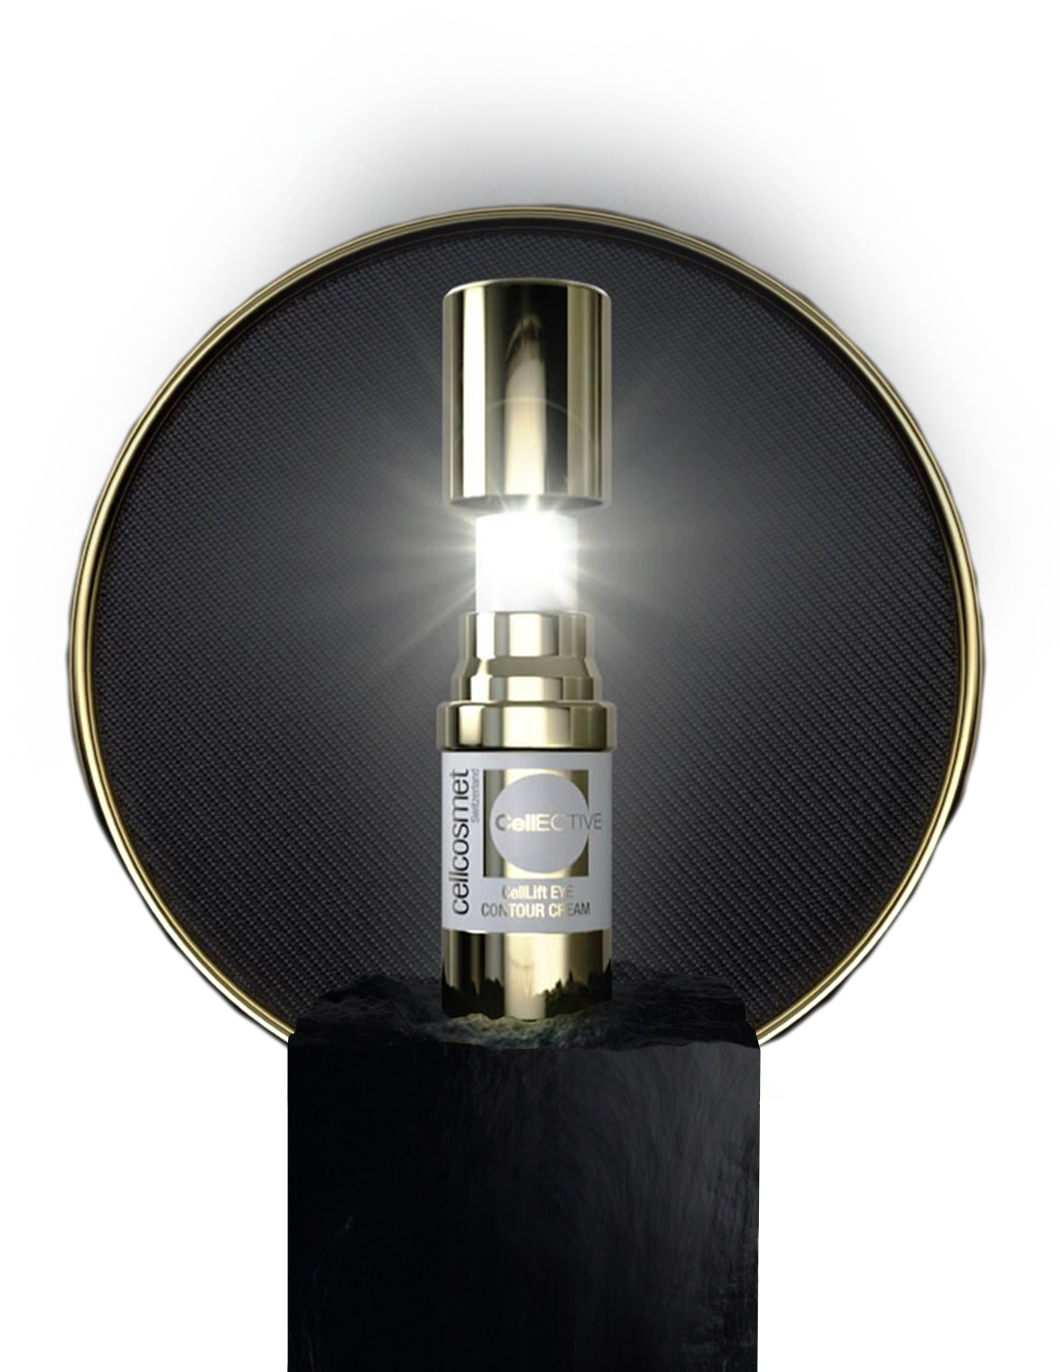
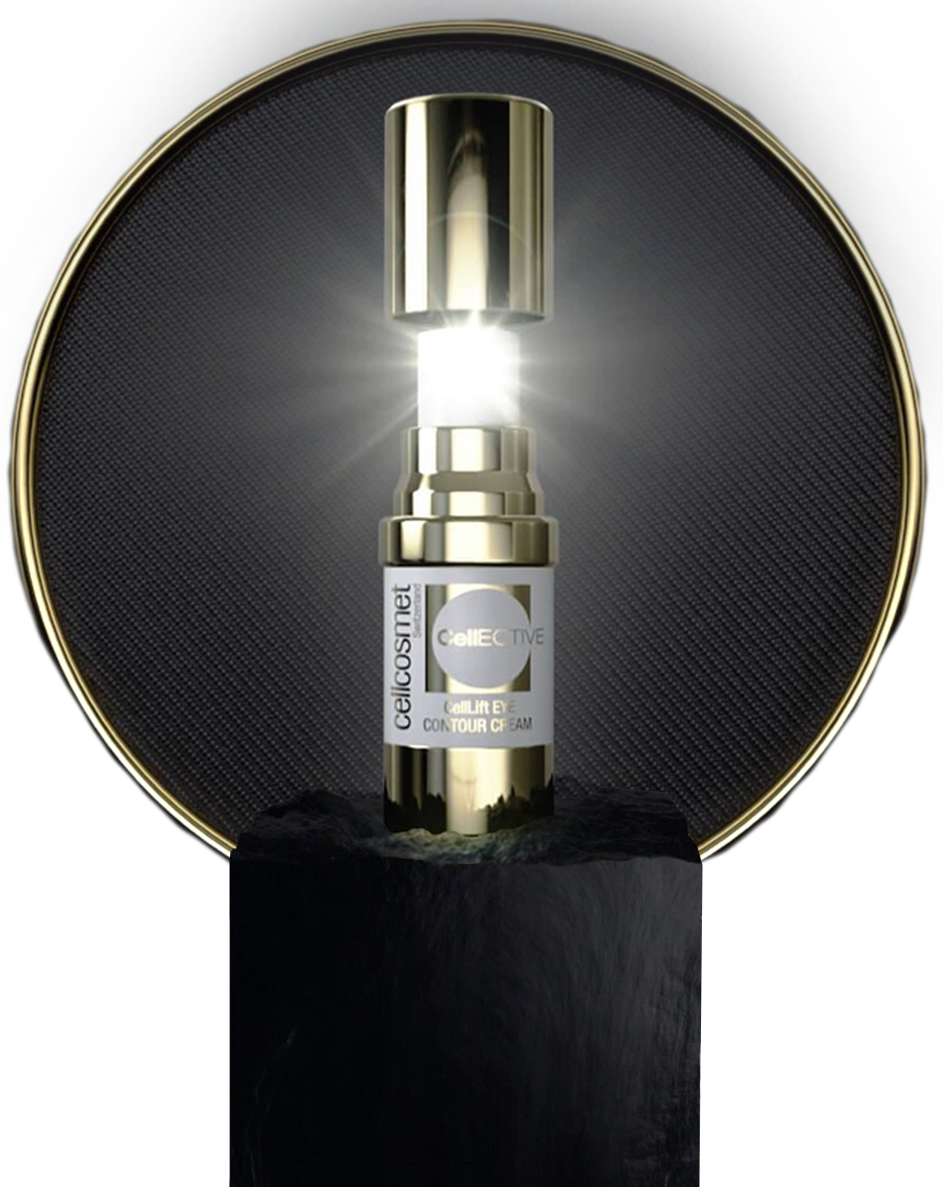
add img

diff --git a/style.css b/style.css
@@ -151,6 +151,8 @@ canvas {
   top: 0;
   left: 0;
   overflow: hidden;
+  z-index: 2;
+  opacity: .33;
 }
 #WebGL-output canvas {
   max-width: 100%;
@@ -167,7 +169,7 @@ canvas {
   text-indent: -9999px;
   background: url("img/text.png") no-repeat;
   background-position: center;
-  background-size: contain;
+  background-size: 25%;
   z-index: 5;
 }
 .video_clip {
@@ -251,10 +253,10 @@ canvas {
   width: 100%;
   height: 100vh;
   box-shadow: 0 0 10px #000;
+  background-image: url('/img/header_bg.png');
 }
 .first figure {
   height: 100%;
-  max-height: calc(100% - 200px);
   width: 100%;
   position: absolute;
   bottom: 0;
@@ -262,11 +264,10 @@ canvas {
 .first .hero {
   position: absolute;
   width: 100%;
-  max-width: 600px;
-  max-height: 100%;
+  height: 100%;
   object-fit: contain;
   bottom: 0;
-  left: calc(50% - 300px);
+  z-index: 2;
 }
 .first .play_block {
   position: absolute;
@@ -300,6 +301,7 @@ canvas {
   height: 100%;
   left: 0;
   top: 0;
+  z-index: 2;
 }
 .first .slider li {
   display: inline-block;

diff --git a/style.less b/style.less
@@ -89,6 +89,8 @@ h1 {
   top: 0;
   left: 0;
   overflow: hidden;
+  z-index: 2;
+  opacity: .33;
 
   & canvas {
     max-width: 100%;
@@ -106,7 +108,7 @@ h1 {
   text-indent: -9999px;
   background: url("img/text.png") no-repeat;
   background-position: center;
-  background-size: contain;
+  background-size: 25%;
   z-index: 5;
 }
 .video_clip {
@@ -200,23 +202,21 @@ h1 {
   width: 100%;
   height: 100vh;
   box-shadow: 0 0 10px #000;
+  background-image: url('/img/header_bg.png');
 
   & figure {
     height: 100%;
-    max-height: calc(~"100% - 200px");
     width: 100%;
-
     position: absolute;
     bottom: 0;
   }
   & .hero {
      position: absolute;
      width: 100%;
-     max-width: 600px;
-     max-height: 100%;
+     height: 100%;
      object-fit: contain;
      bottom: 0;
-     left: calc(~"50% - 300px");
+     z-index: 2;
   }
 
   & .play_block {
@@ -252,6 +252,7 @@ h1 {
     height: 100%;
     left: 0;
     top: 0;
+    z-index: 2;
 
     & li {
       display: inline-block;

diff --git a/js/main.js b/js/main.js
@@ -37,7 +37,7 @@ function init() {
     scene.add(light);
 
     smokeTexture = THREE.ImageUtils.loadTexture('img/Smoke-Element.png');
-    smokeMaterial = new THREE.MeshLambertMaterial({color: 0x727272, map: smokeTexture, transparent: true});
+    smokeMaterial = new THREE.MeshLambertMaterial({color: 0xC5C5C5, map: smokeTexture, transparent: true});
     smokeGeo = new THREE.PlaneGeometry(300,300);
     smokeParticles = [];
 
